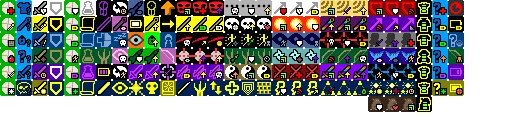
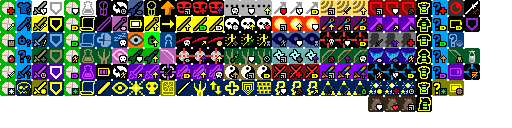
0.1.4:制作天赋“奥术保护”、“排山倒海”

Changed region(s): [[0.9062, 0.375, 0.9375, 0.625], [0.9062, 0.0, 0.9375, 0.25], [0.1875, 0.2812, 0.2188, 0.3438]]

diff --git a/core/src/main/java/com/shatteredpixel/shatteredpixeldungeon/actors/hero/Talent.java b/core/src/main/java/com/shatteredpixel/shatteredpixeldungeon/actors/hero/Talent.java
@@ -71,6 +71,7 @@ import com.shatteredpixel.shatteredpixeldungeon.items.weapon.SpiritBow;
 import com.shatteredpixel.shatteredpixeldungeon.items.weapon.Weapon;
 import com.shatteredpixel.shatteredpixeldungeon.items.weapon.melee.Gloves;
 import com.shatteredpixel.shatteredpixeldungeon.items.weapon.melee.MeleeWeapon;
+import com.shatteredpixel.shatteredpixeldungeon.items.weapon.melee.Woodsword;
 import com.shatteredpixel.shatteredpixeldungeon.items.weapon.missiles.MissileWeapon;
 import com.shatteredpixel.shatteredpixeldungeon.levels.Level;
 import com.shatteredpixel.shatteredpixeldungeon.levels.Terrain;
@@ -100,7 +101,7 @@ public enum Talent {
 	//Warrior T2
 	IRON_STOMACH(4), LIQUID_WILLPOWER(5), RUNIC_TRANSFERENCE(6), LETHAL_MOMENTUM(7), IMPROVISED_PROJECTILES(8),
 	//Warrior T3
-	INTACT_SEAL(9, 3),STRONGMAN(10, 3),
+	INTACT_SEAL(9, 3), STRONGMAN(10, 3), OVERWHELMING(29, 3),
 	//Berserker T3
 	ENDLESS_RAGE(11, 3), DEATHLESS_FURY(12, 3), ENRAGED_CATALYST(13, 3),
 	//Gladiator T3
@@ -117,7 +118,7 @@ public enum Talent {
 	//Mage T2
 	ENERGIZING_MEAL(36), INSCRIBED_POWER(37), WAND_PRESERVATION(38), ARCANE_VISION(39), SHIELD_BATTERY(40), RESERVED_ENERGY(60),
 	//Mage T3
-	DESPERATE_POWER(41, 3), ALLY_WARP(42, 3),
+	DESPERATE_POWER(41, 3), ALLY_WARP(42, 3), ARCANE_ARMOR(61, 3),
 	//Battlemage T3
 	EMPOWERED_STRIKE(43, 3), MYSTICAL_CHARGE(44, 3), EXCESS_CHARGE(45, 3),
 	//Warlock T3
@@ -638,7 +639,8 @@ public enum Talent {
 		}
 
 		if (talent == TWIN_UPGRADES || talent == DESPERATE_POWER
-				|| talent == STRONGMAN || talent == DURABLE_PROJECTILES){
+				|| talent == STRONGMAN || talent == DURABLE_PROJECTILES
+				|| talent == POWER_ACCUMULATION){
 			Item.updateQuickslot();
 		}
 
@@ -647,7 +649,7 @@ public enum Talent {
 			if (!toGive.collect()){
 				Dungeon.level.drop(toGive, hero.pos).sprite.drop();
 			}
-			toGive = new Gloves().identify();
+			toGive = new Woodsword().identify();
 			if (!toGive.collect()){
 				Dungeon.level.drop(toGive, hero.pos).sprite.drop();
 			}
@@ -1113,10 +1115,10 @@ public enum Talent {
 		//tier 3
 		switch (cls){
 			case WARRIOR: default:
-				Collections.addAll(tierTalents, INTACT_SEAL, STRONGMAN);
+				Collections.addAll(tierTalents, INTACT_SEAL, STRONGMAN, OVERWHELMING);
 				break;
 			case MAGE:
-				Collections.addAll(tierTalents, DESPERATE_POWER, ALLY_WARP);
+				Collections.addAll(tierTalents, DESPERATE_POWER, ALLY_WARP, ARCANE_ARMOR);
 				break;
 			case ROGUE:
 				Collections.addAll(tierTalents, ENHANCED_RINGS, LIGHT_CLOAK);

diff --git a/core/src/main/java/com/shatteredpixel/shatteredpixeldungeon/actors/hero/Hero.java b/core/src/main/java/com/shatteredpixel/shatteredpixeldungeon/actors/hero/Hero.java
@@ -542,6 +542,10 @@ public class Hero extends Char {
 		if (buff(Scimitar.SwordDance.class) != null){
 			accuracy *= 1.50f;
 		}
+
+		if(attackDelay() >1 && hasTalent(Talent.OVERWHELMING)){
+			accuracy += accuracy * Math.max (attackDelay()-1f * ( 1f/3f * pointsInTalent(Talent.STRONGMAN)) ,0.5f);
+		}
 		
 		if (!RingOfForce.fightingUnarmed(this)) {
 			return (int)(attackSkill * accuracy * wep.accuracyFactor( this, target ));
@@ -672,6 +676,10 @@ public class Hero extends Char {
 				&& hasTalent(Talent.WEAPON_RECHARGING)
 				&& (buff(Recharging.class) != null || buff(ArtifactRecharge.class) != null)){
 			dmg = Math.round(dmg * 1.025f + (.025f*pointsInTalent(Talent.WEAPON_RECHARGING)));
+		}
+
+		if( attackDelay() >1 && hasTalent(Talent.OVERWHELMING)){
+			dmg += (int) (dmg * Math.max((attackDelay()-1f) * (pointsInTalent(Talent.STRONGMAN)/4f),0.4f));
 		}
 
 		if (dmg < 0) dmg = 0;

diff --git a/core/src/main/java/com/shatteredpixel/shatteredpixeldungeon/actors/Char.java b/core/src/main/java/com/shatteredpixel/shatteredpixeldungeon/actors/Char.java
@@ -890,6 +890,10 @@ public abstract class Char extends Actor {
 		//TODO improve this when I have proper damage source logic
 		if (AntiMagic.RESISTS.contains(src.getClass())){
 			dmg -= AntiMagic.drRoll(this, glyphLevel(AntiMagic.class));
+			if (Dungeon.hero.hasTalent(Talent.ARCANE_ARMOR) && this instanceof Hero){
+				dmg -= Random.NormalIntRange(2*Dungeon.hero.pointsInTalent(Talent.ARCANE_ARMOR),
+						5*Dungeon.hero.pointsInTalent(Talent.ARCANE_ARMOR));
+			}
 			if (buff(ArcaneArmor.class) != null) {
 				dmg -= Random.NormalIntRange(0, buff(ArcaneArmor.class).level());
 			}
